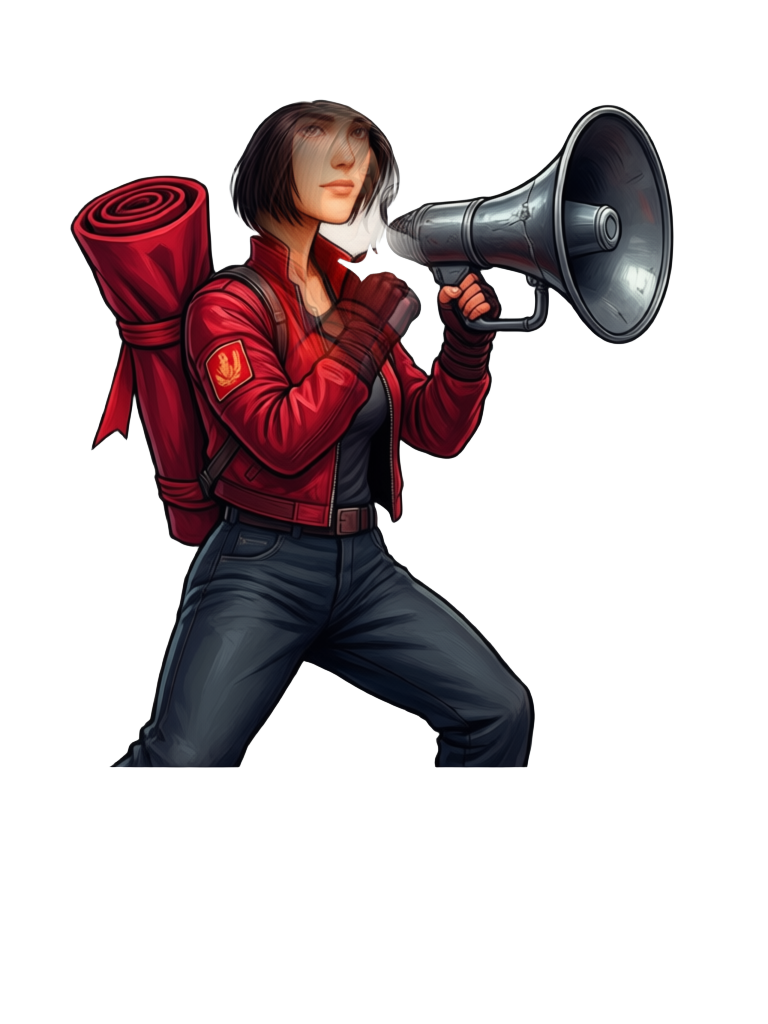
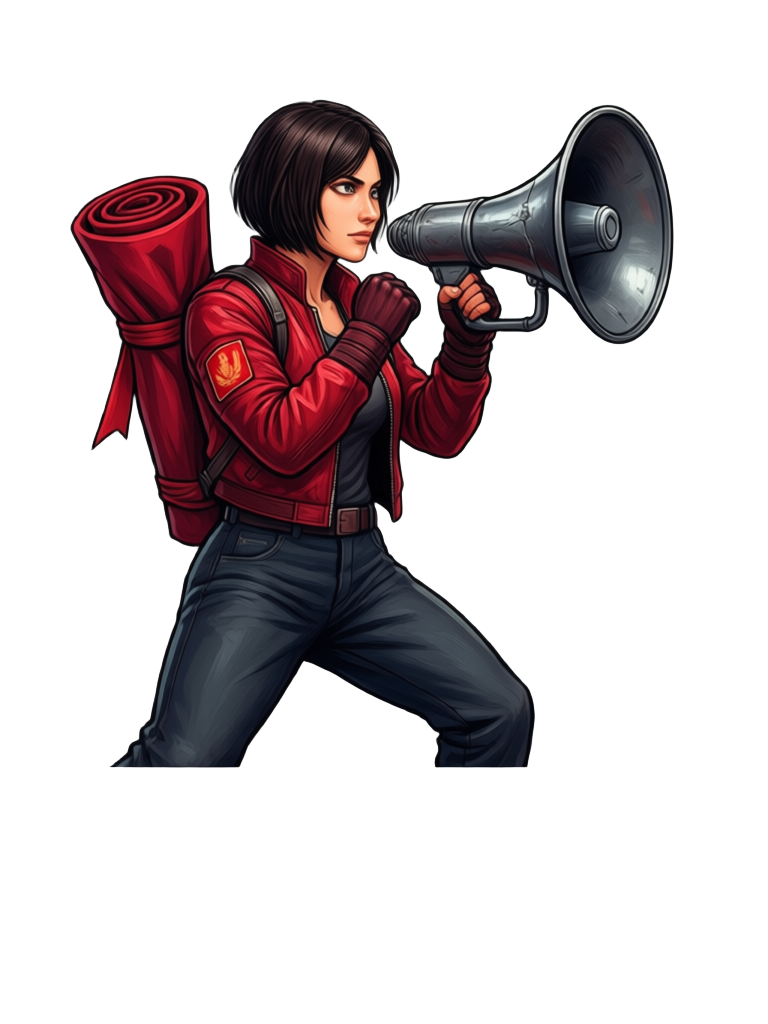
C2C 返工准备：3 张坏图脸部 bbox 修正（只盖脸不扩到手/道具）+ 恢复 c2c 前底图 + 管线新增遮灰 QC（mask 区低饱和高亮灰>3% 判失败）

Changed region(s): [[0.3125, 0.0938, 0.5625, 0.375]]

diff --git a/scripts/art/gen-a2.py b/scripts/art/gen-a2.py
@@ -1,0 +1,230 @@
+#!/usr/bin/env python3
+# A2 场景背景升级（INBOX 19:15 第 10 条 / 07:25）：程序化剪影条带 → Qwen-Image 厚涂条带。
+# 设计（保持现有格式，stages.js/渲染器零改动）：
+#   - 文件规格不变：1024×96 far / 1024×160 near，RGBA 透明底，物体贴条带底边
+#     （透明处仍透出 stages.js 的天空渐变，程序化 lamps/pillars/stars 图层叠加其上）
+#   - 生成 1536×256（6:1 宽幅），提示词：扁平 #d8d8d8 纯灰底、无人物、物体横向铺满且留边
+#   - 后处理：① 角点采样背景色 + 距离软 ramp 抠灰底 ② 底部锚定
+#     ③ 缩到 1024×170 取底边 96/160 行 ④ 左右各 128px alpha 余弦淡出 → 平铺接缝两侧皆透明，天然无缝
+#   - 断点：art-work/a2/<sid>_<layer>_done 存在则跳过；SEED_SALT=1 换种子簇重试
+# 用法：python3 scripts/art/gen-a2.py [s01 s02 ...]
+import importlib.util
+import json
+import os
+import time
+import zlib
+from pathlib import Path
+
+import numpy as np
+from PIL import Image
+
+ROOT = Path(__file__).resolve().parents[2]
+_spec = importlib.util.spec_from_file_location("genc2", ROOT / "scripts" / "art" / "gen-c2.py")
+genc2 = importlib.util.module_from_spec(_spec)
+_spec.loader.exec_module(genc2)
+
+WORK = ROOT / "art-work/a2"
+STAGES_OUT = ROOT / "public/assets/meilong/stages"
+GW, GH = 1536, 256          # 生成尺寸（6:1）
+RW, RH = 1024, 170          # 缩放后统一高，再取底边
+FARE_H, NEAR_H = 96, 160    # 最终条带高
+FARE_BAND = 128             # far 取底边 128 行再缩到 96（下采样，物体不切腰）
+NEAR_BAND = 160
+FADE = 128                  # 左右 alpha 淡出宽
+BG_FALLBACK = (216, 216, 216)
+
+STYLE = ("厚涂赛璐璐风格，干净线稿，色块分明，侧视卷轴格斗游戏背景，横向宽幅构图，"
+         "物体沿画面全宽自然分布、左右两端各留约十分之一空白不贴边，所有物体底部对齐画面底边，"
+         "背景是纯净均匀的浅灰色(#d8d8d8)纯色，无渐变无阴影无地面纹理，画面干净。"
+         "空白背景区域必须是纯 #d8d8d8 浅灰，背景里不许出现场景夜色、光晕、雾气、星星、月亮或任何渐变")
+STYLE_FAR = ("远景全部物体尺度很小，高度不超过画面高度的四分之一，"
+             "画面上方四分之三全部是空白背景，物体稀疏不连续，之间有大片空白背景空隙")
+NEG = ("people, humans, characters, face, body, text, words, letters, logo, watermark, "
+       "3d render, photorealistic, gradient background, vignette, dark background, "
+       "ground texture, floor, horizon line in the middle, busy cluttered, noise")
+
+SCENES = {
+    "s01": {  # 废弃矿井，暗棕黑
+        "far": "废弃矿井夜景远景：老式矿井井架和天轮、圆形煤仓筒仓、破损的铁路栈桥、零散破旧的矿区平房，个别窗户透出昏黄灯光，空气中有薄雾，暗棕灰色调，物体中小尺寸",
+        "near": "废弃矿井夜景前景：锈迹斑斑的铁轨、翻倒的木制矿车、岩石堆、断裂的木梁、散落煤块，暗棕灰色调，物体大且靠近观者",
+    },
+    "s02": {  # 灯廊夜市，紫红
+        "far": "灯廊夜市夜景远景：几栋两层临街店铺，窗户透出暖黄灯光，店铺之间挂着一串串红灯笼，物体色调为紫红夜色调，店铺彼此分开不连续",
+        "near": "灯廊夜市夜景前景：木制摊位、成串红灯笼、堆叠的木箱、帆布遮阳棚、暖黄灯笼光晕，物体色调为紫红夜色调，物体大且靠近观者",
+    },
+    "s03": {  # 炭湖夜渡，深蓝
+        "far": "炭湖夜景远景：暗色湖岸线、远处低矮山影、泊岸的煤驳船剪影，物体色调为深蓝夜色调，物体中小尺寸",
+        "near": "湖畔码头夜景前景：粗壮木系缆桩、盘绕的粗绳、堆叠木桶、木码头边缘，物体色调为深蓝夜色调，物体大且靠近观者",
+    },
+    "s04": {  # 高炉之巅，红橙
+        "far": "高炉厂区夜景远景：巨型高炉剪影、高耸烟囱、管道架、炉口透出的橙红炉光，物体色调为红橙工业色调，物体中大尺寸",
+        "near": "高炉平台夜景前景：只画一根粗管道和一段走道栏杆两个物体，物体色调为红橙工业色调，物体大但彼此分开，物体之间和上方有大片纯灰背景空隙，物体不延伸到画面顶部",
+    },
+    "s05": {  # 星夜矿镇，深蓝
+        "far": "矿镇夜景远景：北方矿区小镇民居屋顶、水塔、风车、零星亮灯的窗户，物体色调为深蓝夜色调，物体中小尺寸",
+        "near": "矿镇夜景前景：木栅栏、老式街灯、岩石堆、电线杆与电线，物体色调为深蓝夜色调，物体大且靠近观者",
+    },
+    "s06": {  # 井下斗场，暗棕
+        "far": "地下矿井深洞远景：拱形砖砌隧道洞口、成排的支撑柱、延伸向远处的铁轨、洞口尽头昏黄灯光，物体色调为暗棕色，物体中小尺寸",
+        "near": "地下矿井前景：工字钢梁、木质支撑架、岩石堆、悬挂的工业灯、矿车，物体色调为暗棕色，物体大且靠近观者",
+    },
+}
+
+
+def log(msg):
+    print(time.strftime("%H:%M:%S ") + msg, flush=True)
+
+
+def wf_t2i(prompt, seed, prefix):
+    return {
+        "1": {"class_type": "UNETLoader", "inputs": {"unet_name": genc2.T2I_UNET, "weight_dtype": "default"}},
+        "2": {"class_type": "CLIPLoader", "inputs": {"clip_name": genc2.CLIP, "type": "qwen_image"}},
+        "3": {"class_type": "VAELoader", "inputs": {"vae_name": genc2.VAE}},
+        "4": {"class_type": "CLIPTextEncode", "inputs": {"clip": ["2", 0], "text": prompt}},
+        "5": {"class_type": "CLIPTextEncode", "inputs": {"clip": ["2", 0], "text": NEG}},
+        "6": {"class_type": "EmptySD3LatentImage", "inputs": {"width": GW, "height": GH, "batch_size": 1}},
+        "7": {"class_type": "KSampler",
+              "inputs": {"model": ["1", 0], "positive": ["4", 0], "negative": ["5", 0],
+                         "latent_image": ["6", 0], "seed": seed, "steps": 20, "cfg": 2.5,
+                         "sampler_name": "euler", "scheduler": "simple", "denoise": 1.0}},
+        "8": {"class_type": "VAEDecode", "inputs": {"samples": ["7", 0], "vae": ["3", 0]}},
+        "9": {"class_type": "SaveImage", "inputs": {"images": ["8", 0], "filename_prefix": prefix}},
+    }
+
+
+def key_bg(rgb: np.ndarray) -> np.ndarray:
+    """背景色采样：四角 8×8 中值 vs 顶 16 行中值，取较亮者。
+    （模型背景是浅灰 #d8d8d8，物体多为深色；四角可能被物体/雾污染，顶行反之，谁亮谁是背景）"""
+    pix = np.concatenate([
+        rgb[:8, :8].reshape(-1, 3), rgb[:8, -8:].reshape(-1, 3),
+        rgb[-8:, :8].reshape(-1, 3), rgb[-8:, -8:].reshape(-1, 3),
+    ]).astype(float)
+    corner = np.median(pix, axis=0)
+    top = np.median(rgb[:16, :, :].reshape(-1, 3), axis=0)
+    bg = corner if corner.sum() >= top.sum() else top
+    if np.all(np.abs(bg - np.array(BG_FALLBACK)) < 30):
+        pass  # 背景色正常
+    else:
+        log("  警告：背景采样 %s（corner %s / top %s）偏离 #d8d8d8"
+            % (bg.round(0).tolist(), corner.round(0).tolist(), top.round(0).tolist()))
+    d = np.linalg.norm(rgb.astype(float) - bg, axis=2)
+    a = np.clip((d - 16.0) / (40.0 - 16.0), 0, 1) * 255.0
+    # 去噪：3×3 中值
+    from PIL import ImageFilter
+    a = np.array(Image.fromarray(a.astype(np.uint8), "L").filter(ImageFilter.MedianFilter(3))).astype(float)
+    return a
+
+
+def anchor_bottom(rgba: np.ndarray) -> np.ndarray:
+    """底边锚定：最下有内容的行移到条带底边。"""
+    rows = np.where((rgba[:, :, 3] > 16).any(axis=1))[0]
+    if len(rows) == 0:
+        return rgba
+    shift = rgba.shape[0] - 1 - rows.max()
+    if shift <= 0:
+        return rgba
+    out = np.zeros_like(rgba)
+    out[shift:] = rgba[:rgba.shape[0] - shift]
+    return out
+
+
+def fade_edges(rgba: np.ndarray, fade: int) -> np.ndarray:
+    """左右两端 alpha 余弦淡出到 0（边缘列=0，向内 128px 恢复 1）→ 平铺接缝两侧皆透明。"""
+    out = rgba.astype(float)
+    ramp = (1.0 - np.cos(np.linspace(0, np.pi / 2, fade))) / 2.0   # 0→1（0 在边缘）
+    for x in range(fade):
+        f = ramp[x]
+        out[:, x, 3] *= f
+        out[:, out.shape[1] - 1 - x, 3] *= f
+    return out.clip(0, 255).astype(np.uint8)
+
+
+def make_strip(raw_path, layer):
+    _L = getattr(Image, "Resampling", Image).LANCZOS
+    im = Image.open(raw_path).convert("RGB").resize((RW, RH), _L)
+    rgb = np.array(im)
+    a = key_bg(rgb)
+    band_h = FARE_BAND if layer == "far" else NEAR_BAND
+    band = slice(RH - band_h, RH)
+    rgba = np.dstack([rgb, a])[band]
+    rgba = anchor_bottom(rgba)
+    rgba = fade_edges(rgba, FADE)
+    img = Image.fromarray(rgba, "RGBA")
+    if layer == "far":
+        img = img.resize((1024, FARE_H), _L)
+    return img
+
+
+def preview(sid, out_path):
+    """假游戏内合成：天空渐变 + far + near，384×224×2 平铺验证。"""
+    import re
+    m = re.search(r"sky: \['(#\w+)', '(#\w+)'\].*?id: '%s'" % sid,
+                  (ROOT / "src/theme/meilong/stages.js").read_text(), re.S)
+    if not m:
+        m = re.search(r"id: '%s'.*?sky: \['(#\w+)', '(#\w+)'\]" % sid,
+                      (ROOT / "src/theme/meilong/stages.js").read_text(), re.S)
+    top, bot = m.group(1), m.group(2)
+
+    def hx(c):
+        return np.array([int(c[i:i + 2], 16) for i in (1, 3, 5)], float)
+
+    W, H, G = 384, 224, 200
+    far = Image.open(STAGES_OUT / sid / "far.png")
+    near = Image.open(STAGES_OUT / sid / "near.png")
+    sky = np.zeros((H, W, 3), float)
+    for y in range(G):
+        sky[y] = hx(top) * (1 - y / G) + hx(bot) * (y / G)
+    canvas = Image.fromarray(sky.astype(np.uint8))
+    for x in range(-far.width, W, far.width):
+        canvas.paste(far, (x, G - far.height), far)
+    for x in range(-near.width, W, near.width):
+        canvas.paste(near, (x, G - near.height), near)
+    twin = Image.new("RGB", (W * 2 + 4, H), (40, 40, 40))
+    twin.paste(canvas, (0, 0))
+    twin.paste(canvas, (W + 4, 0))
+    twin.save(out_path)
+
+
+def main():
+    salt = int(os.environ.get("SEED_SALT", "0"))
+    sids = [a for a in (sys.argv[1:]) if a in SCENES] if len(__import__("sys").argv) > 1 else list(SCENES)
+    WORK.mkdir(parents=True, exist_ok=True)
+    ok = fail = skip = 0
+    for sid in sids:
+        for layer in ("far", "near"):
+            key = "%s_%s" % (sid, layer)
+            done_p = WORK / (key + "_done")
+            if done_p.exists():
+                skip += 1
+                continue
+            prompt = (SCENES[sid][layer] + "。" + STYLE + ("。" + STYLE_FAR if layer == "far" else ""))
+            seed = 80110400 + int(sid[1:]) * 100000 + (0 if layer == "far" else 50000) \
+                + zlib.crc32((sid + layer).encode()) % 90000 + salt * 7919
+            prefix = "f2a2_%s" % key
+            try:
+                fp = genc2.OUTPUT / (prefix + "_0.png")
+                if fp.exists():
+                    fp.unlink()
+                found, dt = genc2.run(wf_t2i(prompt, seed, prefix), [prefix])
+                strip = make_strip(found[prefix], layer)
+                assert strip.size == (1024, FARE_H if layer == "far" else NEAR_H)
+                # 质检：不透明内容占比（far 3–45%，near 10–80%）
+                frac = (np.array(strip)[:, :, 3] > 16).mean()
+                lo, hi = (0.03, 0.60) if layer == "far" else (0.10, 0.80)
+                if not (lo < frac < hi):
+                    raise RuntimeError("内容占比 %.1f%% 超界 (%.0f–%.0f%%)" % (frac * 100, lo * 100, hi * 100))
+                strip.save(STAGES_OUT / sid / (layer + ".png"))
+                done_p.write_text(json.dumps({"seed": seed, "frac": round(frac, 3), "ts": int(time.time())}))
+                log("ok %s (%.0fs, 内容 %.1f%%)" % (key, dt, frac * 100))
+                ok += 1
+            except Exception as e:
+                fail += 1
+                log("FAIL %s: %s" % (key, str(e)[:160]))
+            genc2.hb()
+        preview(sid, WORK / ("preview-%s.png" % sid))
+    log("A2 done: ok=%d fail=%d skip=%d" % (ok, fail, skip))
+
+
+if __name__ == "__main__":
+    import sys
+    main()

diff --git a/scripts/art/gen-c2c.py b/scripts/art/gen-c2c.py
@@ -136,6 +136,21 @@ def face_skin_ok(dec_rgb, m):
     return float(skin.mean())
 
 
+def mask_gray_ratio(res_rgba, m, s_th=0.08, v_lo=0.55, v_hi=0.93):
+    """mask 核心区（m>0.5）低饱和高亮灰像素占比（INBOX 2026-11-02：>3% 判遮灰残留）。
+    只算不透明像素（alpha>250）：角色外是透明背景，合成底 #d8d8d8 本身就是
+    低饱和高亮灰，不算进来；v_hi 排除近白（牙齿/白安全帽）。
+    2026-11-02 c05/normal 鬼脸灰雾 + c03 拳上灰雾均逃过 skin/identity 检查，此条兜底。
+    校准：脸 mask 正确时干净脸 0–2.7%，灰雾残留 4%+（c05/normal 4.4%、c03/hurt 3.7%）。"""
+    a = np.array(res_rgba)
+    opq = (m > 0.5) & (a[:, :, 3] > 250)
+    px = np.array(res_rgba).astype(float)[opq]
+    if px.shape[0] == 0:
+        return 0.0
+    h, s, v = genc2._hsv_vec(px)
+    return float(((s < s_th) * (v > v_lo) * (v < v_hi)).sum() / px.shape[0])
+
+
 def main():
     dry = os.environ.get("DRY") == "1"
     salt = int(os.environ.get("SEED_SALT", "0"))
@@ -193,6 +208,10 @@ def main():
                         continue
                     if skin < 0.10:
                         log("bad %s_%s [脸区肤色占比 %.3f < 0.10] try%d" % (cid, expr, skin, attempt + 1))
+                        continue
+                    gray_r = mask_gray_ratio(result, m)
+                    if gray_r > 0.03:
+                        log("bad %s_%s [mask区遮灰残留 %.2f%% > 3%%] try%d" % (cid, expr, gray_r * 100, attempt + 1))
                         continue
                     # 脸区实际变化量：模型照抄原脸（表情没生效）时 diff≈0（c07/c08 教训 2026-11-02）。
                     # normal 是静止表情：NOBLANK 下"保持原脸"就是正确结果，跳过此项（skin+qc 仍把关）。
